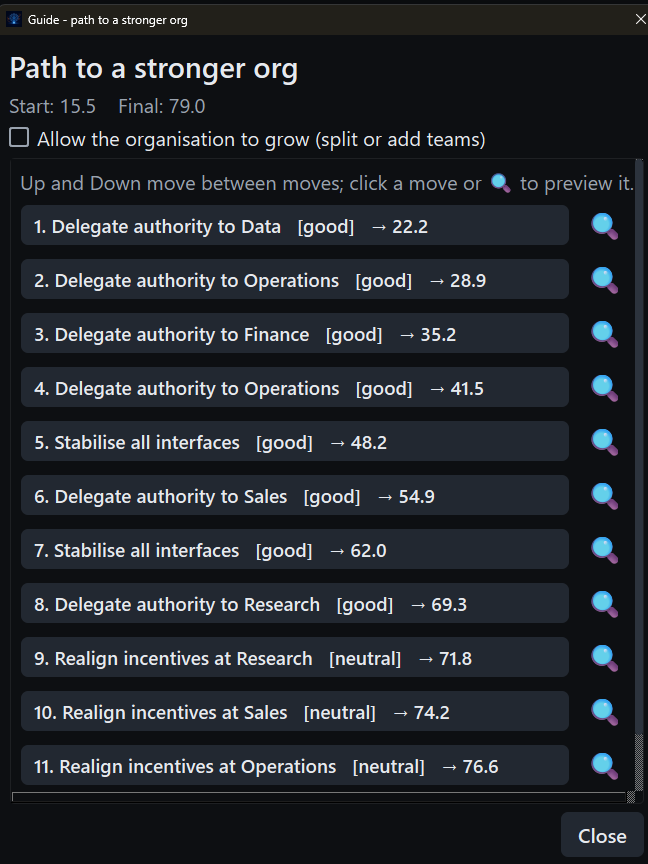
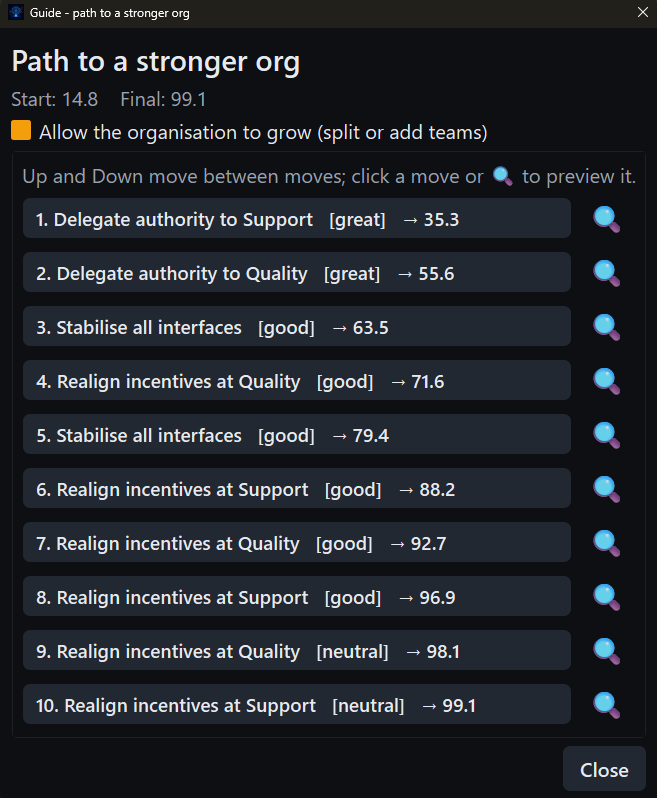
docs: refresh the site screenshots and captions for 1.3.7

diff --git a/docs/index.html b/docs/index.html
@@ -95,10 +95,10 @@
           <div class="frame">
             <img loading="lazy" src="assets/screenshots/play-board.png" alt="The Fulcrum board scoring an organisation's structure">
           </div>
-          <figcaption><b>The position.</b> The Data section of a 28-team
-            enterprise, scoring 15.5 out of 100. Stick figures mark who decides
+          <figcaption><b>The position.</b> The Legal section of a generated
+            organisation, scoring 14.8 out of 100. Stick figures mark who decides
             locally against who escalates and arrows trace the dependencies
-            between sub-domains; the right-hand list is the strong moves the
+            between its sub-domains; the right-hand list is the strong moves the
             section opens up.</figcaption>
         </figure>
         <figure class="shot">
@@ -106,7 +106,7 @@
             <img loading="lazy" src="assets/screenshots/play-guide.png" alt="The Fulcrum guide planning a stronger org">
           </div>
           <figcaption><b>The line.</b> The guide plans the climb move by
-            move, 15.5 to 79.0, each step classified from blunder to great. It
+            move, 14.8 to 99.1, each step classified from blunder to great. It
             opens by delegating authority to the teams everyone depends
             on.</figcaption>
         </figure>
@@ -127,7 +127,7 @@
   <div class="container footer-inner">
     <div>
       <strong>Fulcrum</strong>: Organisational Decision Architecture Sandbox<br>
-      (c) 2026 Oliver Ernster · Local-first · GPL-3.0 + LGPL-3.0 · v<!--VERSION-->1.3.6<!--/VERSION-->
+      (c) 2026 Oliver Ernster · Local-first · GPL-3.0 + LGPL-3.0 · v<!--VERSION-->1.3.7<!--/VERSION-->
     </div>
     <div class="footer-links">
       <a href="https://github.com/oernster/fulcrum/releases">Releases</a>